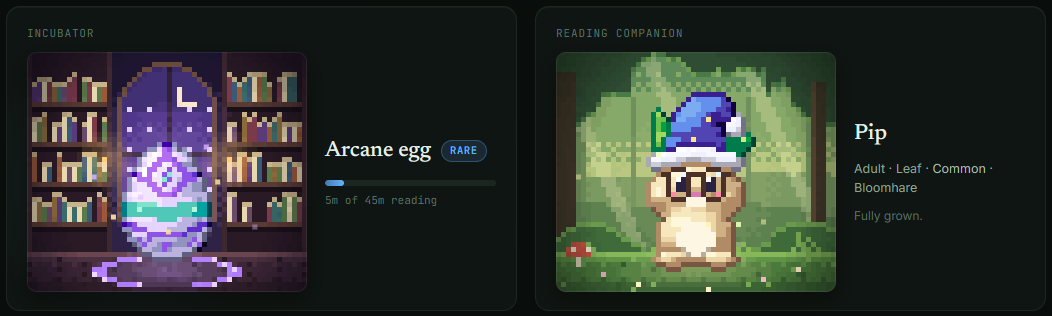
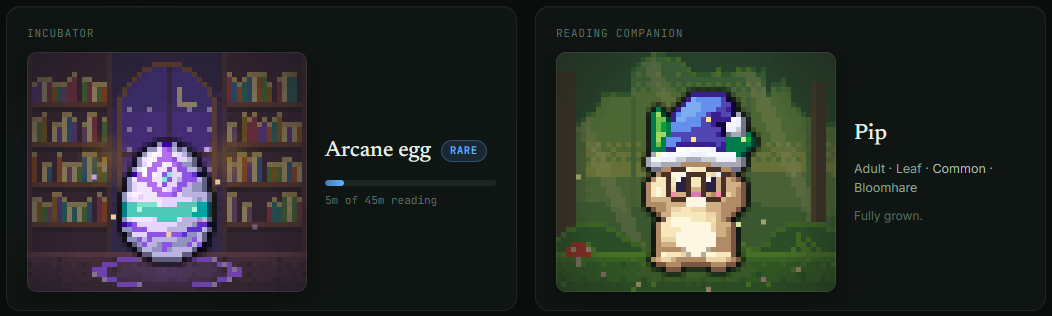
Habitats: grade scenes behind the creature, rim the sprite
Scenes had the same brightness and saturation as the pets, so pale
creatures (a white cub on snow) blurred into them. Every scene is now
graded after painting: lightness squeezed into a dim middle range and
color muted, and the glow behind the creature is gone. A dark one-pixel
rim separates the sprite from its scene.

Changed region(s): [[0.5171, 0.1424, 0.8213, 0.9114], [0.0304, 0.2278, 0.3042, 0.9114]]

diff --git a/src/lib/hatchery/scenes.ts b/src/lib/hatchery/scenes.ts
@@ -16,7 +16,7 @@
 import type { Element } from "./kit.ts";
 import type { Sprite } from "./pixel.ts";
 import type { Rgb } from "./color.ts";
-import { hexToRgb } from "./color.ts";
+import { hexToRgb, oklchToRgb, rgbToOklch } from "./color.ts";
 
 export const SCENE_W = 56;
 export const SCENE_H = 48;
@@ -124,6 +124,23 @@ class Canvas {
     });
   }
 
+  /** Remap every pixel's lightness into lo…hi and scale its chroma. */
+  grade(lo: number, hi: number, chroma: number) {
+    const memo = new Map<number, Rgb>();
+    for (let i = 0; i < this.data.length; i += 4) {
+      const key = (this.data[i] << 16) | (this.data[i + 1] << 8) | this.data[i + 2];
+      let out = memo.get(key);
+      if (!out) {
+        const [L, C, H] = rgbToOklch([this.data[i], this.data[i + 1], this.data[i + 2]]);
+        out = oklchToRgb(lo + L * (hi - lo), C * chroma, H);
+        memo.set(key, out);
+      }
+      this.data[i] = out[0];
+      this.data[i + 1] = out[1];
+      this.data[i + 2] = out[2];
+    }
+  }
+
   sprite(): Sprite {
     return { w: SCENE_W, h: SCENE_H, data: this.data };
   }
@@ -152,21 +169,24 @@ function ridge(seed: number, scale = 1) {
 const inEll = (cx: number, cy: number, rx: number, ry: number) => (x: number, y: number) =>
   ((x + 0.5 - cx) / rx) ** 2 + ((y + 0.5 - cy) / ry) ** 2 <= 1;
 
-/** The finishing passes every scene shares: light pooled where the
- *  creature stands, a glow behind it, and a darker rim. */
-function finish(c: Canvas, light: Paint, shade: Paint, pool = 0.4, glow = 0.14) {
+/** The finishing passes every scene shares: a little light pooled where
+ *  the creature stands, a darker rim, then the grade that keeps the scene
+ *  behind the creature — its lightness squeezed into a dim middle range and
+ *  its color muted, so a creature's full range (pale fur, bright shine)
+ *  always stands out against it. */
+function finish(c: Canvas, light: Paint, shade: Paint, pool = 0.4) {
   const cx = STAGE.x + 16;
-  c.tint(light, (x, y) => {
-    const floor = y >= FLOOR ? pool * (1 - Math.hypot((x + 0.5 - cx) / 17, (y + 0.5 - 43.5) / 4.2)) : 0;
-    const halo = glow * (1 - Math.hypot((x + 0.5 - cx) / 22, (y + 0.5 - 26) / 20));
-    return Math.max(floor, halo);
-  });
+  c.tint(light, (x, y) => (y >= FLOOR ? pool * 0.6 * (1 - Math.hypot((x + 0.5 - cx) / 15, (y + 0.5 - 43.5) / 3.6)) : 0));
   c.tint(shade, (x, y) => {
     const dx = Math.abs(x + 0.5 - SCENE_W / 2) / (SCENE_W / 2);
     const dy = Math.abs(y + 0.5 - SCENE_H * 0.55) / (SCENE_H * 0.55);
     return Math.max(0, Math.hypot(dx * 1.05, dy * 0.8) - 0.78) * 1.2;
   });
+  c.grade(GRADE.lo, GRADE.hi, GRADE.chroma);
 }
+
+/** Scene lightness maps into lo…hi (OKLCH), chroma scales by `chroma`. */
+const GRADE = { lo: 0.17, hi: 0.62, chroma: 0.85 };
 
 // ── habitats ──
 
@@ -213,7 +233,7 @@ function leaf(c: Canvas) {
   // A toadstool on the left, a fern on the right.
   c.stamp(2, 38, [".rrr.", "rwrrw", "rrrrr", "..s..", "..s.."], { r: "#c9503f", w: "#f6ead2", s: "#eadfc4" });
   c.stamp(47, 36, ["....f.", "..f.f.", ".f.ff.", "f.ff..", ".ff...", "..f..."], { f: "#79aa52" }, true);
-  finish(c, "#fff2b0", "#10180f", 0.32, 0.12);
+  finish(c, "#fff2b0", "#10180f", 0.32);
 }
 
 function ember(c: Canvas) {
@@ -254,7 +274,7 @@ function ember(c: Canvas) {
   c.tint("#ff6a2a", (x, y) => (y >= FLOOR ? 0.4 * (1 - Math.min(...seam.map(([sx, sy]) => Math.hypot(sx - x, (sy - y) * 1.5))) / 3) : 0));
   for (const [x, y] of seam) c.set(x, y, "#e8581e");
   for (const [x, y] of [[7, 42], [8, 43], [46, 42], [47, 43], [22, 46], [34, 46]]) c.set(x, y, "#ffc060");
-  finish(c, "#ffb070", "#0e0708", 0.3, 0.1);
+  finish(c, "#ffb070", "#0e0708", 0.3);
 }
 
 function tide(c: Canvas) {
@@ -289,7 +309,7 @@ function tide(c: Canvas) {
   c.fill((x, y) => y > FLOOR && y % 3 === 0 && ((x + y * 2) % 8) < 3, "#b89e68");
   c.stamp(45, 44, [".s.", "sss", ".s."], { s: "#f08a6a" });
   c.stamp(6, 45, [".w.", "www"], { w: "#f4e8d8" });
-  finish(c, "#e8fff4", "#08141c", 0.3, 0.12);
+  finish(c, "#e8fff4", "#08141c", 0.3);
 }
 
 function stone(c: Canvas) {
@@ -336,7 +356,7 @@ function stone(c: Canvas) {
   }
   c.tint("#b48ae0", (x, y) => (y >= FLOOR ? 0.3 * (1 - Math.hypot((x - 6) / 12, (y - 42) / 5)) : 0));
   c.tint("#e0b04a", (x, y) => (y >= FLOOR ? 0.3 * (1 - Math.hypot((x - 50) / 12, (y - 42) / 5)) : 0));
-  finish(c, "#ffe8c0", "#0b0a10", 0.26, 0.1);
+  finish(c, "#ffe8c0", "#0b0a10", 0.26);
 }
 
 /** A crystal cluster, bottom-aligned (rows trimmed from the top for
@@ -377,7 +397,7 @@ function sky(c: Canvas) {
   const lower = (x: number) => FLOOR + 4 + Math.round(Math.abs(Math.sin(x * 0.35 + 1)) * 2);
   c.fill((x, y) => y >= lower(x), (x, y) => (y === lower(x) ? "#f4f6fc" : "#cfd8ea"));
   c.fill((x, y) => y > lower(x) + 1 && Math.abs(Math.sin(x * 0.35 + 1)) < 0.3, "#b8c4dc");
-  finish(c, "#fff4dc", "#18203a", 0.2, 0.1);
+  finish(c, "#fff4dc", "#18203a", 0.2);
 }
 
 function frost(c: Canvas) {
@@ -421,7 +441,7 @@ function frost(c: Canvas) {
   c.fill((x, y) => y >= FLOOR + 3 && y < FLOOR + 5 && bayer(x, y) > 0.5, "#b8cce0");
   const glint = rng(29);
   for (let i = 0; i < 7; i++) c.set(Math.floor(glint() * SCENE_W), FLOOR + 1 + Math.floor(glint() * 6), "#ffffff");
-  finish(c, "#e8f4ff", "#070c18", 0.18, 0.12);
+  finish(c, "#e8f4ff", "#070c18", 0.18);
 }
 
 function moon(c: Canvas) {
@@ -464,7 +484,7 @@ function moon(c: Canvas) {
     c.stamp(x - 1, y - 1, [".f.", "fcf", ".f."], { f: "#9ab0ff", c: "#f0f4ff" });
   }
   c.tint("#9ab0ff", (x, y) => (y >= FLOOR - 1 ? 0.2 * (1 - Math.min(...[[8, 42], [15, 45], [44, 43], [50, 46], [36, 46]].map(([fx, fy]) => Math.hypot(fx - x, fy - y))) / 3.5) : 0));
-  finish(c, "#c8d4ff", "#05061a", 0.26, 0.12);
+  finish(c, "#c8d4ff", "#05061a", 0.26);
 }
 
 function arcane(c: Canvas) {
@@ -518,7 +538,7 @@ function arcane(c: Canvas) {
   };
   c.fill(ring, (x, y) => ((x * 7 + y) % 5 === 0 ? "#f0d8ff" : "#b07aff"));
   c.tint("#b07aff", (x, y) => (y >= FLOOR ? 0.3 * (1 - Math.hypot((x + 0.5 - 28) / 16, (y + 0.5 - 44) / 4.5)) : 0));
-  finish(c, "#f0d8ff", "#07040e", 0.18, 0.08);
+  finish(c, "#f0d8ff", "#07040e", 0.18);
 }
 
 const PAINT: Record<Element, (c: Canvas) => void> = { leaf, ember, tide, stone, sky, frost, moon, arcane };

diff --git a/scripts/scene-sheet.ts b/scripts/scene-sheet.ts
@@ -41,6 +41,18 @@ const blit = (s: Sprite, x0: number, y0: number) => {
   }
 };
 
+/** The dark rim the app draws around a creature in its habitat
+ *  (`.habitat-stage` in hatchery.css). */
+const rim = (s: Sprite, x0: number, y0: number) => {
+  const on = (x: number, y: number) => x >= 0 && y >= 0 && x < s.w && y < s.h && s.data[(y * s.w + x) * 4 + 3] > 0;
+  for (let y = -1; y <= s.h; y++) {
+    for (let x = -1; x <= s.w; x++) {
+      if (on(x, y) || !(on(x - 1, y) || on(x + 1, y) || on(x, y - 1) || on(x, y + 1))) continue;
+      svg += `<rect x="${x0 + x * SCALE}" y="${y0 + y * SCALE}" width="${SCALE}" height="${SCALE}" fill="#07090c" fill-opacity="0.55"/>`;
+    }
+  }
+};
+
 rows.forEach((el, ri) => {
   const y0 = GAP + ri * CH;
   const own = SPECIES.filter((s) => s.element === el);
@@ -56,7 +68,10 @@ rows.forEach((el, ri) => {
   cast.forEach((sp, ci) => {
     const x0 = GAP + ci * CW;
     blit(renderScene(el), x0, y0);
-    if (sp) blit(sp, x0 + STAGE.x * SCALE, y0 + STAGE.y * SCALE);
+    if (sp) {
+      rim(sp, x0 + STAGE.x * SCALE, y0 + STAGE.y * SCALE);
+      blit(sp, x0 + STAGE.x * SCALE, y0 + STAGE.y * SCALE);
+    }
   });
 });
 svg += "</svg>";

diff --git a/src/components/hatchery/hatchery.css b/src/components/hatchery/hatchery.css
@@ -1186,6 +1186,12 @@
   position: absolute;
   display: block;
 }
+/* A dark one-pixel rim lifts the creature off its scene. */
+.habitat-stage > img {
+  --rim: rgba(5, 7, 10, 0.5);
+  filter: drop-shadow(var(--k) 0 0 var(--rim)) drop-shadow(calc(var(--k) * -1) 0 0 var(--rim))
+    drop-shadow(0 var(--k) 0 var(--rim)) drop-shadow(0 calc(var(--k) * -1) 0 var(--rim));
+}
 .habitat .motes {
   position: absolute;
   inset: 0;

diff --git a/src/lib/hatchery/ART.md b/src/lib/hatchery/ART.md
@@ -161,5 +161,8 @@ size, with the creature's 32×32 box at `STAGE`. Review with
 `node scripts/scene-sheet.ts <out.png> [element] [scale]` (each scene empty,
 with three of its own creatures, a foreign one, and its egg). Keep scenes
 darker and calmer than the creatures: shading lives in `tint` steps with
-dithering only at step edges, and `finish()` adds the light pool and dark rim.
+dithering only at step edges, and `finish()` adds the light pool and dark
+edges, then grades the whole scene (`GRADE`: lightness squeezed into a dim
+middle range, color muted) so any creature — even a white one on snow —
+stands out. The UI adds a dark one-pixel rim around the creature.
 Motes (embers, snow, bubbles) are CSS-animated in the UI from `MOTES`.
